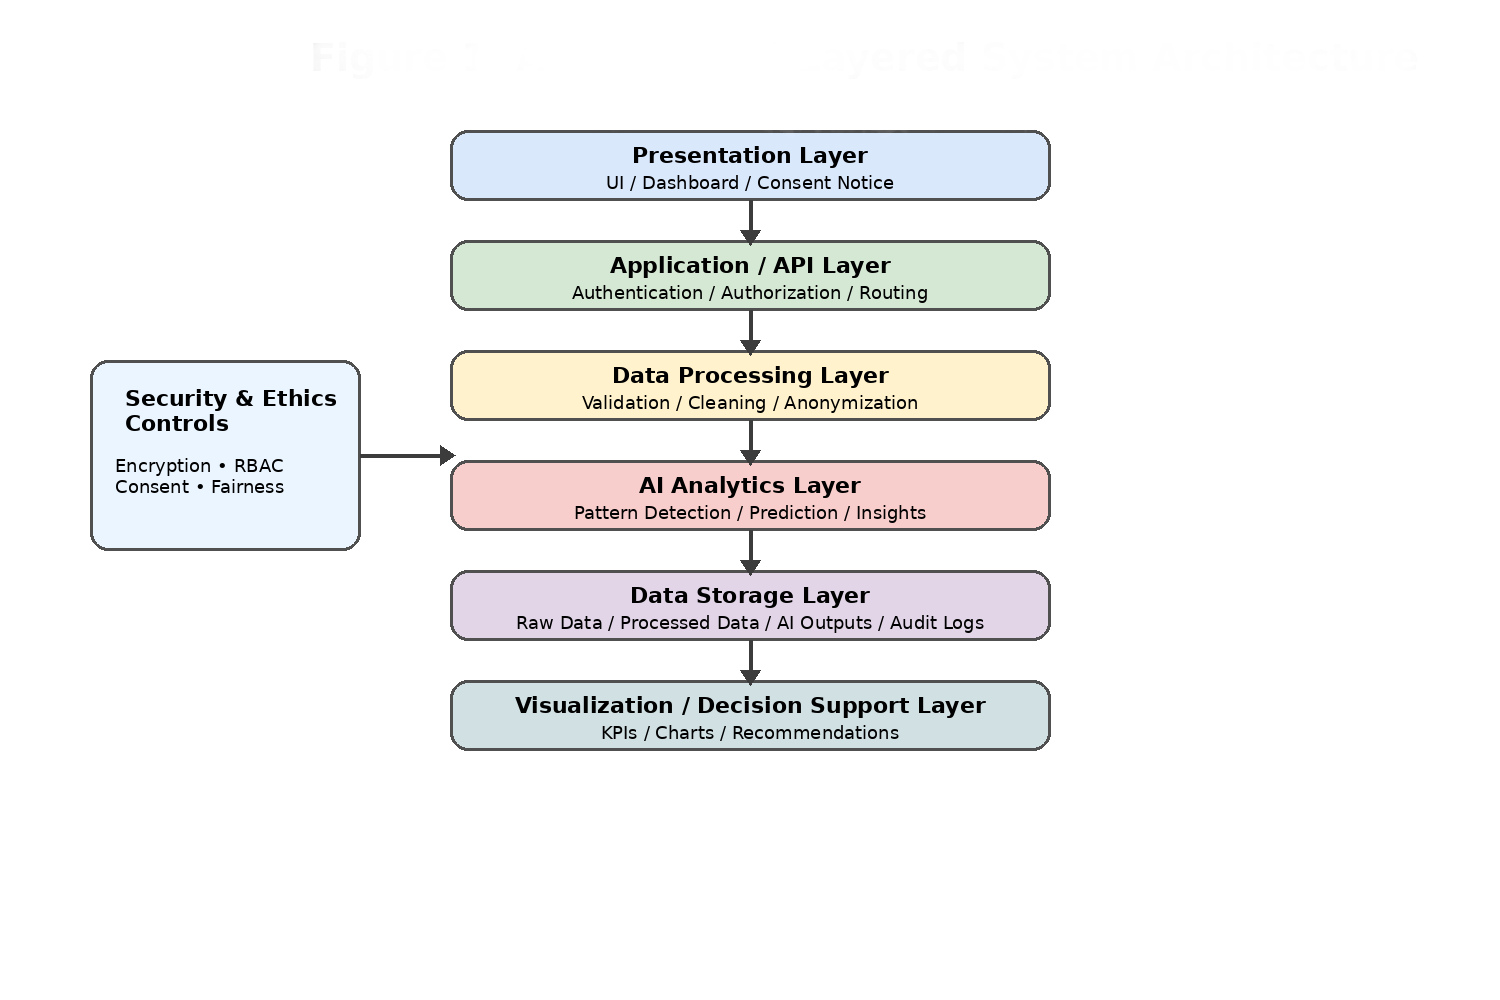
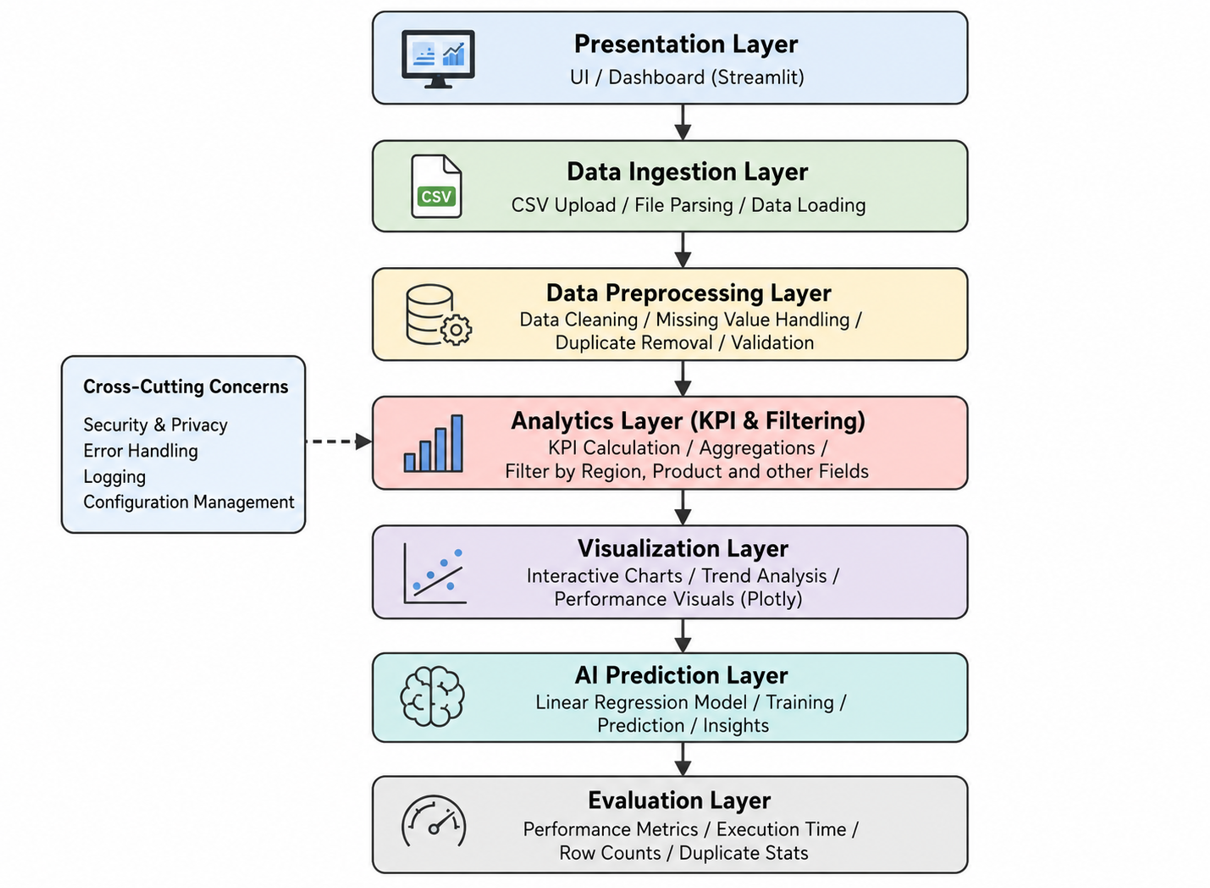
Add performance evaluation metrics and dashboard enhancements

diff --git a/src/app.py b/src/app.py
@@ -1,3 +1,4 @@
+import time
 import streamlit as st
 import pandas as pd
 import plotly.express as px
@@ -11,14 +12,15 @@ st.set_page_config(
 
 st.markdown("""
 # 🤖 AI-Enhanced Data Processing & Decision Support System
-### MSIT 5910 Capstone Project - Initial Prototype Demo
-This prototype demonstrates automated data upload, cleaning, filtering, visualization, KPI analysis, and AI-driven prediction.
+### MSIT 5910 Capstone Project – Integrated Prototype Demo
+This system demonstrates CSV upload, data cleaning, KPI analysis, filtering, visualization, AI prediction, and performance evaluation.
 """)
 
 st.sidebar.title("📌 Dashboard Controls")
 uploaded_file = st.sidebar.file_uploader("📂 Upload CSV File", type=["csv"])
 
 if uploaded_file:
+    # Input module
     df = pd.read_csv(uploaded_file)
 
     st.success("Dataset uploaded successfully.")
@@ -29,19 +31,27 @@ if uploaded_file:
     original_rows = df.shape[0]
     original_cols = df.shape[1]
 
+    # Data cleaning module with timing
+    clean_start_time = time.time()
+
     cleaned_df = df.drop_duplicates()
     cleaned_df = cleaned_df.ffill().bfill()
+
+    clean_end_time = time.time()
+    preprocessing_time = clean_end_time - clean_start_time
 
     cleaned_rows = cleaned_df.shape[0]
     removed_duplicates = original_rows - cleaned_rows
 
     st.subheader("2. Data Cleaning Summary")
-    col1, col2, col3 = st.columns(3)
+
+    col1, col2, col3, col4 = st.columns(4)
     col1.metric("Original Rows", original_rows)
     col2.metric("Cleaned Rows", cleaned_rows)
-    col3.metric("Duplicates Removed", removed_duplicates)
+    col3.metric("Columns", original_cols)
+    col4.metric("Duplicates Removed", removed_duplicates)
 
-    # Filters
+    # Filtering module
     st.sidebar.subheader("🔎 Filters")
 
     filtered_df = cleaned_df.copy()
@@ -63,7 +73,7 @@ if uploaded_file:
     st.subheader("3. Filtered Dataset Preview")
     st.dataframe(filtered_df.head(), use_container_width=True)
 
-    # KPI Cards
+    # KPI module
     st.subheader("4. Business KPI Dashboard")
 
     total_revenue = filtered_df["Revenue"].sum() if "Revenue" in filtered_df.columns else 0
@@ -78,6 +88,8 @@ if uploaded_file:
     kpi4.metric("Avg. Customer Satisfaction", f"{avg_satisfaction:.2f}")
 
     numeric_cols = filtered_df.select_dtypes(include=["int64", "float64"]).columns.tolist()
+
+    ai_prediction_time = 0
 
     if len(numeric_cols) >= 2:
         st.subheader("5. Interactive Data Visualization")
@@ -112,12 +124,17 @@ if uploaded_file:
             )
             st.plotly_chart(fig2, use_container_width=True)
 
+        # AI prediction module with timing
         st.subheader("7. AI Prediction Module")
+
+        ai_start_time = time.time()
 
         model = LinearRegression()
         model.fit(filtered_df[[x_col]], filtered_df[y_col])
-
         predictions = model.predict(filtered_df[[x_col]])
+
+        ai_end_time = time.time()
+        ai_prediction_time = ai_end_time - ai_start_time
 
         result_df = filtered_df[[x_col, y_col]].copy()
         result_df["AI Predicted Value"] = predictions
@@ -127,16 +144,62 @@ if uploaded_file:
         st.markdown("""
         ### 🧠 AI Explanation
 
-        The AI module uses a basic **Linear Regression** model to identify the relationship between the selected input variable and target variable.
+        The AI module uses a basic **Linear Regression** model to analyze the relationship between the selected input variable and target variable.
 
         In this prototype:
-        - The selected **X-axis column** acts as the input feature.
-        - The selected **Y-axis column** acts as the target value.
+        - The selected X-axis column acts as the input feature.
+        - The selected Y-axis column acts as the target value.
         - The model learns the relationship between both variables.
-        - The predicted values show how the system can support decision-making by estimating future or expected outcomes.
-
-        This demonstrates how AI can support organizational decision-making by transforming cleaned data into predictive insights.
+        - The predicted values demonstrate how AI can support decision-making by estimating expected outcomes.
         """)
+
+        # Performance evaluation section
+        st.subheader("8. System Evaluation Metrics")
+
+        evaluation_data = pd.DataFrame({
+            "Metric": [
+                "Preprocessing Latency",
+                "AI Prediction Latency",
+                "Rows Processed",
+                "Duplicates Removed"
+            ],
+            "Value": [
+                round(preprocessing_time, 4),
+                round(ai_prediction_time, 4),
+                cleaned_rows,
+                removed_duplicates
+            ],
+            "Unit": [
+                "seconds",
+                "seconds",
+                "rows",
+                "rows"
+            ]
+        })
+
+        st.dataframe(evaluation_data, use_container_width=True)
+
+        perf_chart_data = pd.DataFrame({
+            "Process": ["Data Cleaning", "AI Prediction"],
+            "Execution Time (Seconds)": [
+                preprocessing_time,
+                ai_prediction_time
+            ]
+        })
+
+        fig3 = px.bar(
+            perf_chart_data,
+            x="Process",
+            y="Execution Time (Seconds)",
+            title="System Performance Evaluation"
+        )
+        st.plotly_chart(fig3, use_container_width=True)
+
+        st.info(
+            "The evaluation section provides quantitative evidence of system performance by measuring "
+            "data preprocessing latency and AI prediction execution time. These metrics help assess "
+            "efficiency and support future optimization."
+        )
 
     else:
         st.warning("Please upload a dataset with at least two numeric columns for visualization and AI prediction.")